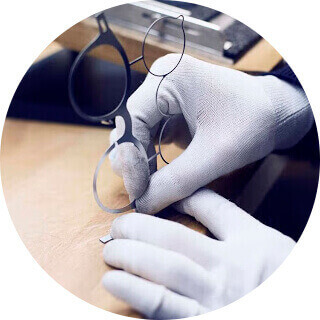
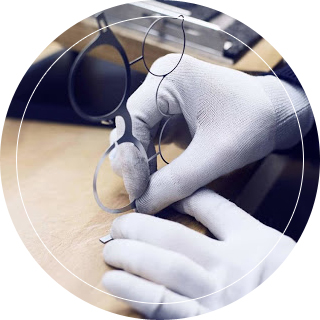
img full

diff --git a/css/style.min.css b/css/style.min.css
@@ -402,8 +402,8 @@ box-shadow: 0px 0px 73px 52px rgba(231,241,248,1);
     left: -120px;
 }
 .circle--2{
-	top: 186px;
-    left: 280px;
+	top: 205px;
+    left: 253px;
 }
 .circle--3{
 	    top: 146px;
